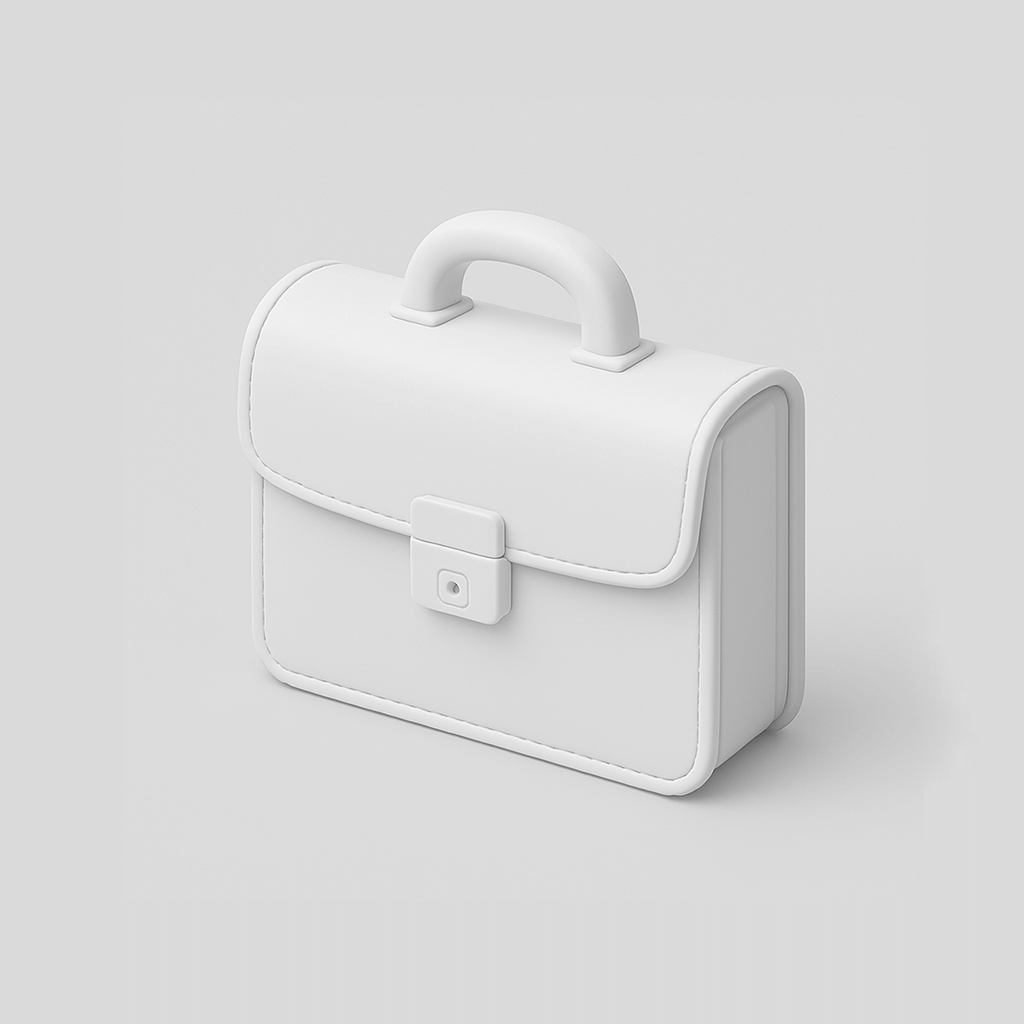
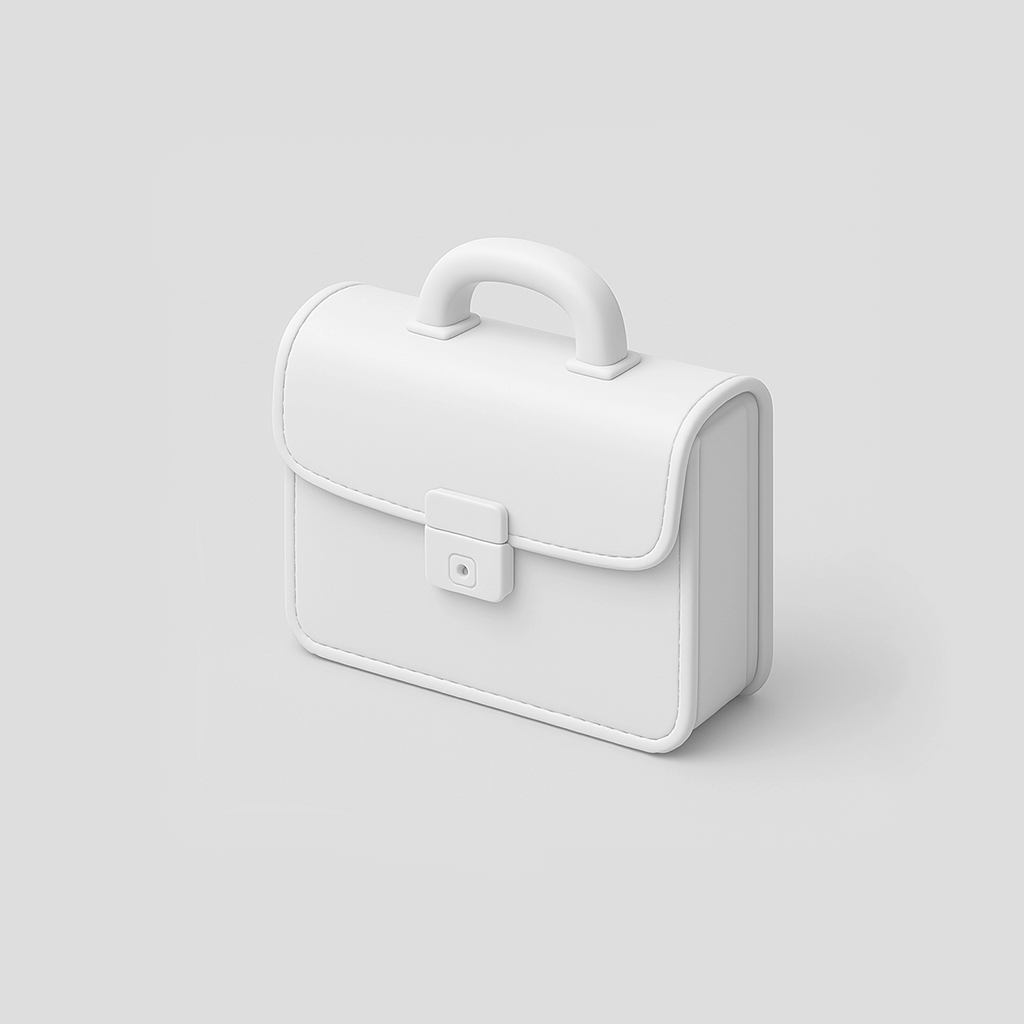
Image fixes and "on" state bugs

diff --git a/hired.html b/hired.html
@@ -99,9 +99,9 @@
 					<div class="col-xs-12 col-sm-12 col-md-12 col-lg-12">
 						<div class="row" style="margin:-5px">
 							<div class="col-xs-6 col-sm-6 col-md-6 col-lg-4 nopadding"><a href="sgs-as.html"><figure><img src="img/tile-sgs-as.png" alt="..." class="img-fluid grow"><figcaption class="caption">Sutherland Global</figcaption></figure></a></div>
-             				<div class="col-xs-6 col-sm-6 col-md-6 col-lg-4 nopadding"><a href="sortly.html"><figure class="on"><img src="img/tile-sortly.png" alt="..." class="img-fluid grow"><figcaption class="caption">Sortly</figcaption></figure></a></div>
+             				<div class="col-xs-6 col-sm-6 col-md-6 col-lg-4 nopadding"><a href="sortly.html"><figure><img src="img/tile-sortly.png" alt="..." class="img-fluid grow"><figcaption class="caption">Sortly</figcaption></figure></a></div>
             				<div class="col-xs-6 col-sm-6 col-md-6 col-lg-4 nopadding"><a href="sgs.html"><figure><img src="img/tile-sgs-cai.png" alt="..." class="img-fluid grow"><figcaption class="caption">Sutherland Labs</figcaption></figure></a></div>
-							<div class="col-xs-6 col-sm-6 col-md-6 col-lg-4 nopadding"><a href="hired.html"><figure><img src="img/tile-hired.png" alt="..." class="img-fluid grow"><figcaption class="caption">Hired</figcaption></figure></a></div>
+							<div class="col-xs-6 col-sm-6 col-md-6 col-lg-4 nopadding"><a href="hired.html"><figure class="on"><img src="img/tile-hired.png" alt="..." class="img-fluid grow"><figcaption class="caption">Hired</figcaption></figure></a></div>
 							<div class="col-xs-6 col-sm-6 col-md-6 col-lg-4 nopadding"><a href="tripadvisor.html"><figure><img src="img/tile-tripadvisor.png" alt="..." class="img-fluid grow"><figcaption class="caption">TripAdvisor</figcaption></figure></a></div>
 							<div class="col-xs-6 col-sm-6 col-md-6 col-lg-4 nopadding"><a href="udemy.html"><figure><img src="img/tile-udemy.png" alt="..." class="img-fluid grow"><figcaption class="caption">Udemy</figcaption></figure></a></div>
 						</div>

diff --git a/tripadvisor.html b/tripadvisor.html
@@ -100,7 +100,7 @@
 				<div class="row">
 					<div class="col-xs-12 col-sm-12 col-md-12 col-lg-12">
 						<div class="row" style="margin:-5px">
-							<div class="col-xs-6 col-sm-6 col-md-6 col-lg-4 nopadding"><a href="sgs-as.html"><figure class="on"><img src="img/tile-sgs-as.png" alt="..." class="img-fluid grow"><figcaption class="caption">Sutherland Global</figcaption></figure></a></div>
+							<div class="col-xs-6 col-sm-6 col-md-6 col-lg-4 nopadding"><a href="sgs-as.html"><figure><img src="img/tile-sgs-as.png" alt="..." class="img-fluid grow"><figcaption class="caption">Sutherland Global</figcaption></figure></a></div>
              				<div class="col-xs-6 col-sm-6 col-md-6 col-lg-4 nopadding"><a href="sortly.html"><figure><img src="img/tile-sortly.png" alt="..." class="img-fluid grow"><figcaption class="caption">Sortly</figcaption></figure></a></div>
             				<div class="col-xs-6 col-sm-6 col-md-6 col-lg-4 nopadding"><a href="sgs.html"><figure><img src="img/tile-sgs-cai.png" alt="..." class="img-fluid grow"><figcaption class="caption">Sutherland Labs</figcaption></figure></a></div>
 							<div class="col-xs-6 col-sm-6 col-md-6 col-lg-4 nopadding"><a href="hired.html"><figure><img src="img/tile-hired.png" alt="..." class="img-fluid grow"><figcaption class="caption">Hired</figcaption></figure></a></div>
